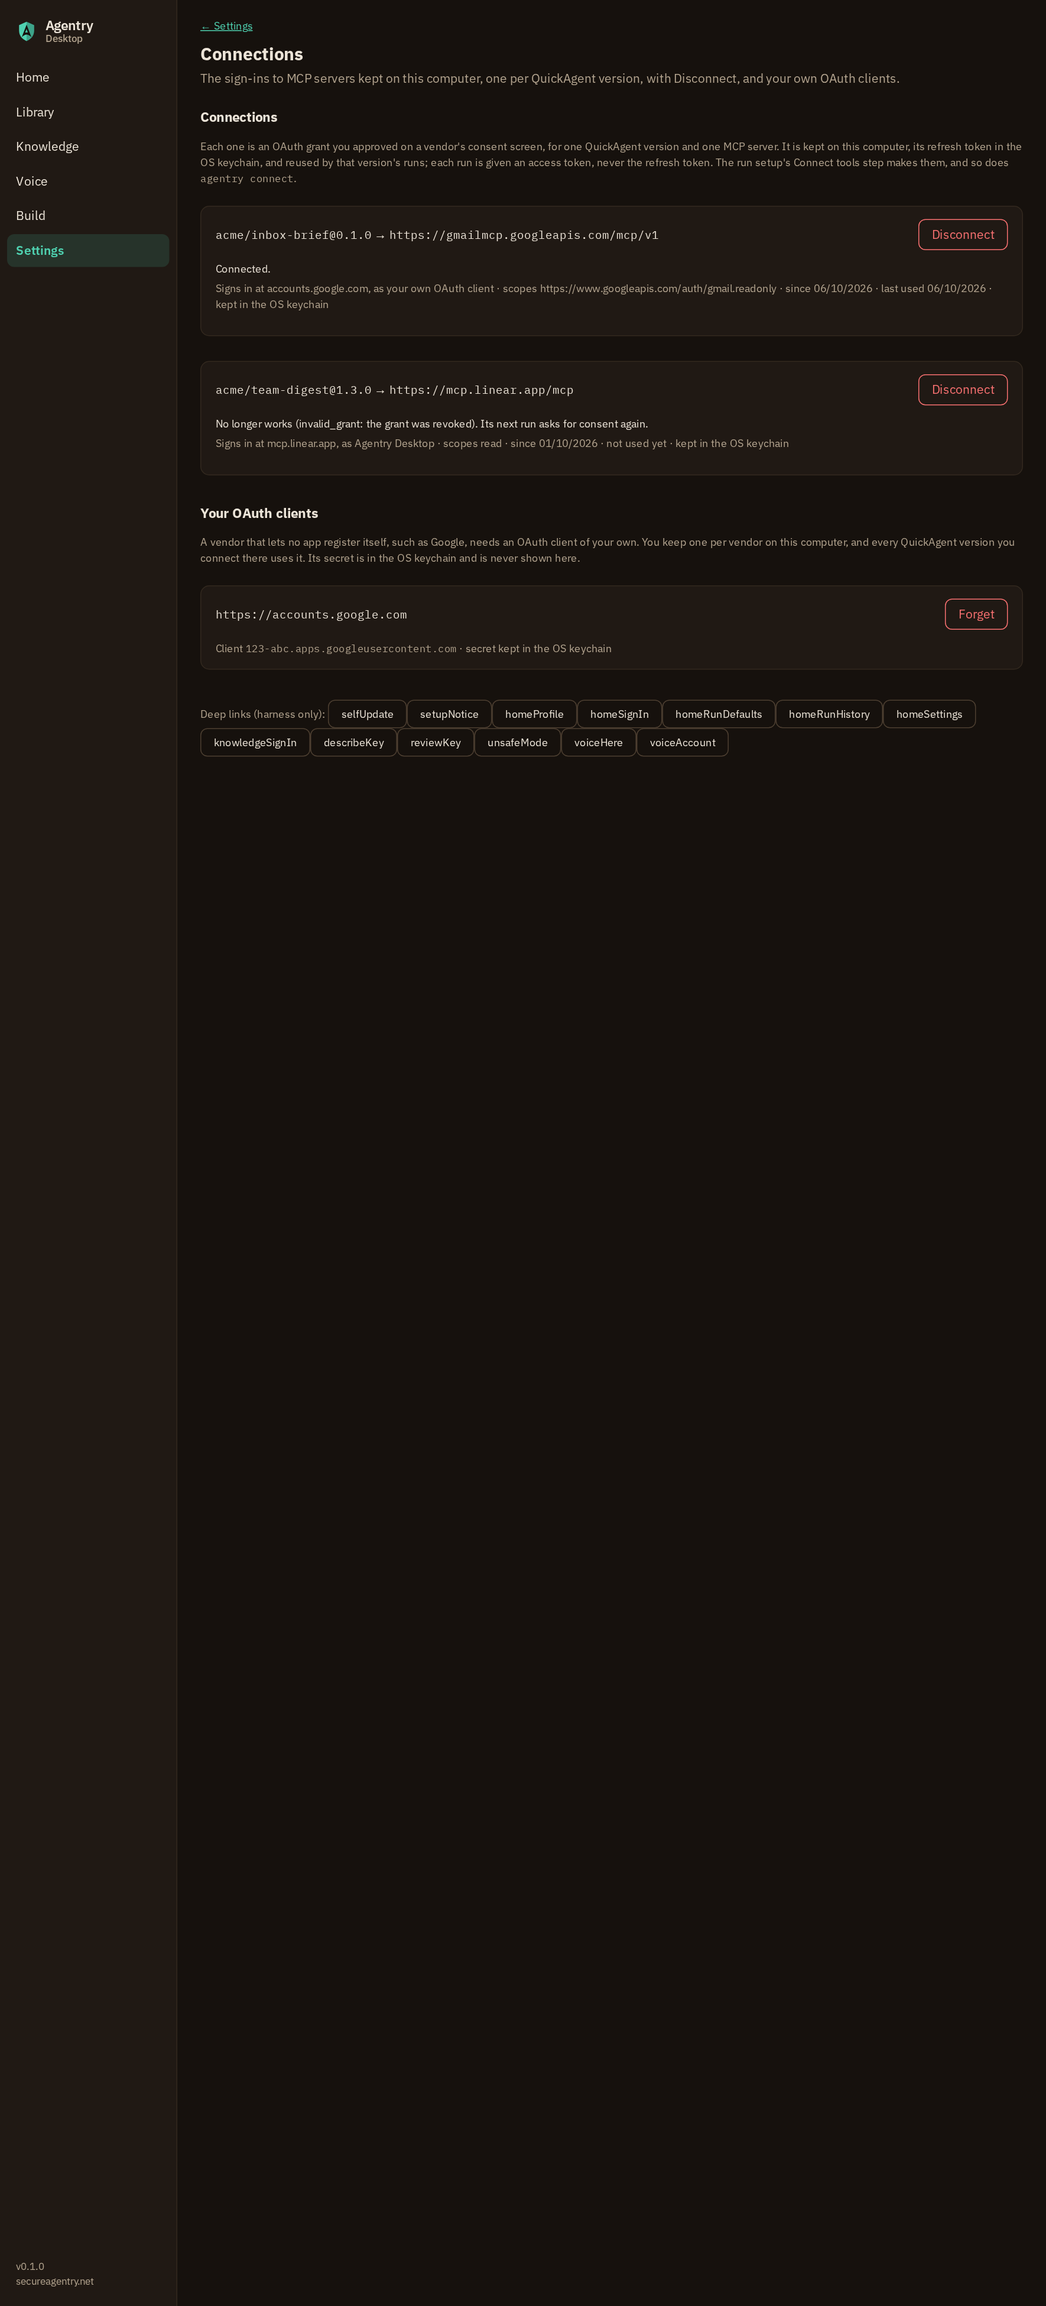
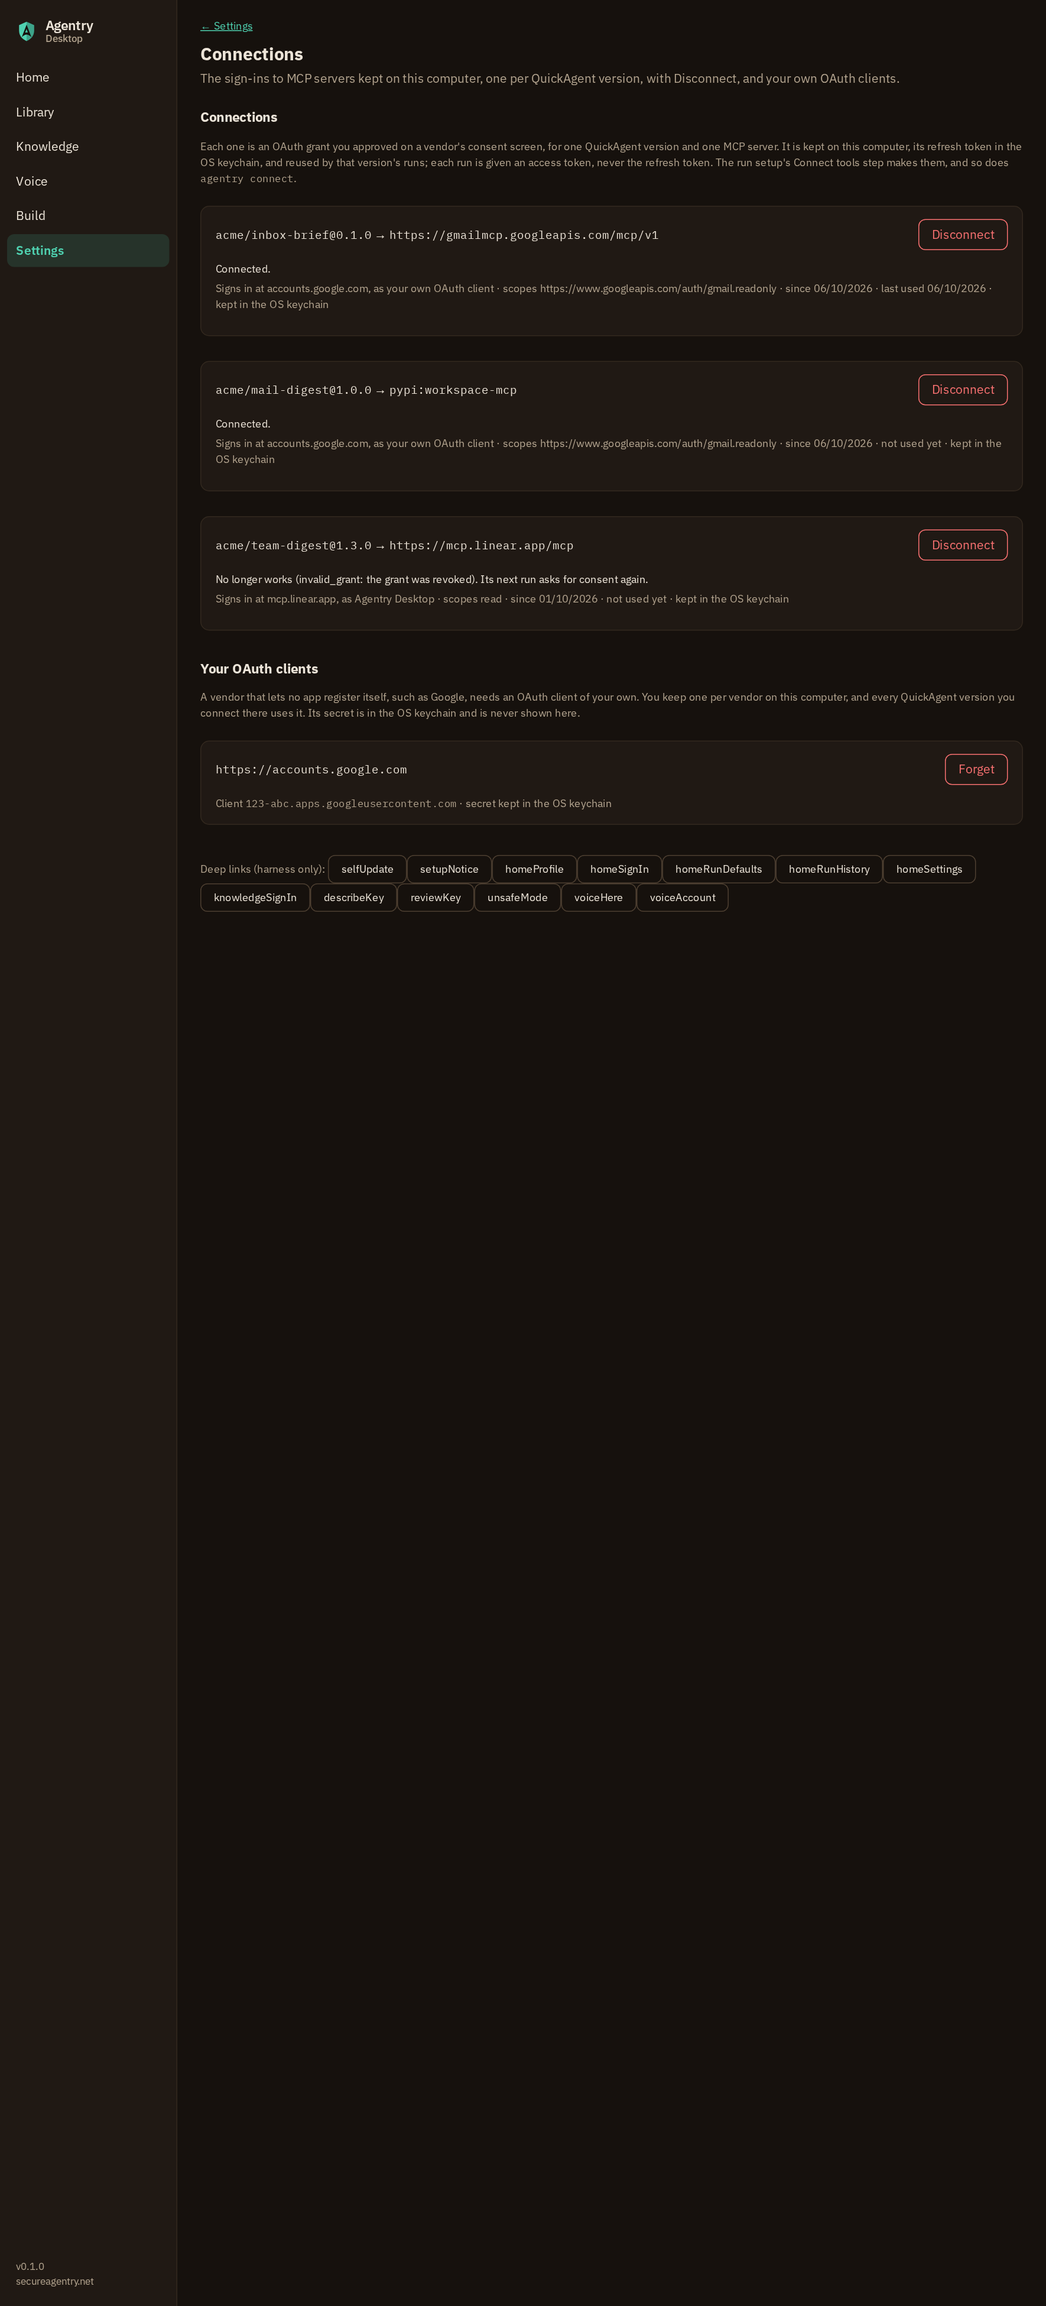
fix(run): Connect again with the same client revokes nothing; Disconnect names the connections that share the grant
The live check on Windows (#666) found that Google revokes an account's
whole grant to a client, not one refresh token: disconnecting
live-m5/gmail-remote ended live-m5/gmail-wsmcp's connection too, both made
with the operator's own client (invalid_grant: Token has been expired or
revoked). So:

- Connecting again with the same client at the same issuer replaces the
  record and its secret (Store.Put) and revokes nothing: revoking the old
  token would end the grant just made, and every other connection made
  with that client.
- Each connection names the other kept connections made with the same
  client at the same issuer (sharesGrantWith). Disconnect still revokes,
  as D17 says (the operator's decision of 2026-10-06: always revoke, warn
  first), and both Disconnect dialogs name the connections it may end. An
  uninstall's message names them after the fact.

Tests: TestConnectingAgainWithTheSameClientRevokesNothing (a mutation of
the rule was caught), TestConnectionsSayWhichOthersShareTheirGrant, the
warning's words; harness state settings-connections-disconnect.

Refs #666

diff --git a/frontend/tests/connections.test.ts b/frontend/tests/connections.test.ts
@@ -2,7 +2,7 @@
 // connection, and what it holds Run for.
 import { test } from "node:test";
 import assert from "node:assert/strict";
-import { connectionBlockers, connectionLine, connectionsStatus, pastedProblem, signInRecap, type ServerConn } from "../src/connections.ts";
+import { connectionBlockers, connectionLine, connectionsStatus, pastedProblem, sharedGrantWarning, signInRecap, type ServerConn } from "../src/connections.ts";
 import { needList, signInNeed } from "../src/runSetup.ts";
 
 const gmail = "https://gmailmcp.googleapis.com/mcp/v1";
@@ -66,4 +66,15 @@ test("the Connections card's line counts what is kept and what no longer works",
   const c = (state: string) => ({ state }) as never;
   assert.equal(connectionsStatus({ connections: [], clients: [] }), "No connections kept · no OAuth client of your own.");
   assert.equal(connectionsStatus({ connections: [c("connected"), c("broken")], clients: [{} as never] }), "2 connections kept (1 no longer working) · 1 OAuth client of your own.");
+});
+
+test("Disconnect warns by name when other connections share the client's grant", () => {
+  assert.equal(sharedGrantWarning("accounts.google.com", []), null);
+  assert.equal(sharedGrantWarning("accounts.google.com", undefined), null);
+  const w = sharedGrantWarning("accounts.google.com", ["acme/digest@2.0.0 → pypi:workspace-mcp"]) ?? "";
+  assert.match(w, /^accounts\.google\.com may revoke everything granted to that client/);
+  assert.match(w, /Google does/);
+  assert.match(w, /acme\/digest@2\.0\.0 → pypi:workspace-mcp/);
+  assert.match(w, /The other connection made with the same client then stops working too, and asks for your consent at its next run: /);
+  assert.match(sharedGrantWarning("accounts.google.com", ["a", "b"]) ?? "", /The 2 other connections made with the same client then stop working too, and ask .* their next run: a; b\.$/);
 });

diff --git a/frontend/harness/pages.tsx b/frontend/harness/pages.tsx
@@ -756,9 +756,13 @@ g.go = { main: {
     Connections: async () => ({
       connections: [
         { ref: "acme/inbox-brief@0.1.0", digest: "sha256:7f3a2b9c1d4e5f60", server: "https://gmailmcp.googleapis.com/mcp/v1", issuer: "https://accounts.google.com", client: "own",
-          scopes: ["https://www.googleapis.com/auth/gmail.readonly"], state: "connected", createdAt: "2026-10-06T14:02:00Z", lastUsedAt: "2026-10-06T14:05:00Z", keptIn: "keychain" },
+          scopes: ["https://www.googleapis.com/auth/gmail.readonly"], state: "connected", createdAt: "2026-10-06T14:02:00Z", lastUsedAt: "2026-10-06T14:05:00Z", keptIn: "keychain",
+          sharesGrantWith: ["acme/mail-digest@1.0.0 → pypi:workspace-mcp"] },
+        { ref: "acme/mail-digest@1.0.0", digest: "sha256:3c4d5e6f7a8b9c0d", server: "pypi:workspace-mcp", issuer: "https://accounts.google.com", client: "own",
+          scopes: ["https://www.googleapis.com/auth/gmail.readonly"], state: "connected", createdAt: "2026-10-06T14:20:00Z", keptIn: "keychain",
+          sharesGrantWith: ["acme/inbox-brief@0.1.0 → https://gmailmcp.googleapis.com/mcp/v1"] },
         { ref: "acme/team-digest@1.3.0", digest: "sha256:0b1c2d3e4f5a6b7c", server: "https://mcp.linear.app/mcp", issuer: "https://mcp.linear.app", client: "dcr",
-          scopes: ["read"], state: "broken", broken: "invalid_grant: the grant was revoked", createdAt: "2026-10-01T09:00:00Z", keptIn: "keychain" },
+          scopes: ["read"], state: "broken", broken: "invalid_grant: the grant was revoked", createdAt: "2026-10-01T09:00:00Z", keptIn: "keychain", sharesGrantWith: [] },
       ],
       clients: [{ issuer: "https://accounts.google.com", clientId: "123-abc.apps.googleusercontent.com", secretIn: "keychain" }],
     }),

diff --git a/frontend/src/pages/ConnectTools.tsx b/frontend/src/pages/ConnectTools.tsx
@@ -15,7 +15,7 @@ import { OpenExternal } from "../../wailsjs/go/main/App";
 import { run } from "../../wailsjs/go/models";
 import { EventsOn } from "../../wailsjs/runtime/runtime";
 import { Button, Card, ErrorBox, Input, Modal, Notice } from "../ui";
-import { connectionLine, hostOf, pastedProblem, scopeWords, type ServerConn } from "../connections";
+import { connectionLine, hostOf, pastedProblem, scopeWords, sharedGrantWarning, type ServerConn } from "../connections";
 
 /** The own-client ask: Agentry's steps for the vendor, then the form. */
 export function OwnClientSteps({ guide }: { guide: run.OwnClientGuide }) {
@@ -234,6 +234,9 @@ export function ServerSignIns({ registry, agentRef, release, onChanged }: {
             The connection of this version to <span className="mono">{confirm.server}</span> is removed from this computer, and
             Agentry asks the vendor to revoke it where the vendor offers that. Its next run asks for your consent again.
           </p>
+          {sharedGrantWarning(hostOf(confirm.issuer), confirm.sharesGrantWith) && (
+            <Notice tone="warn">{sharedGrantWarning(hostOf(confirm.issuer), confirm.sharesGrantWith)}</Notice>
+          )}
           <div className="row" style={{ justifyContent: "flex-end" }}>
             <Button onClick={() => setConfirm(null)}>Cancel</Button>
             <Button variant="danger" onClick={() => void disconnect(confirm)}>Disconnect</Button>

diff --git a/frontend/src/connections.ts b/frontend/src/connections.ts
@@ -120,3 +120,16 @@ export function connectionsStatus(v: Pick<main.KeptConnectionsView, "connections
   const own = c === 0 ? "no OAuth client of your own" : c === 1 ? "1 OAuth client of your own" : `${c} OAuth clients of your own`;
   return `${conns}${broken > 0 ? ` (${broken} no longer working)` : ""} · ${own}.`;
 }
+
+/** The warning a Disconnect shows when other connections were made with the
+ *  same client at the same vendor (agentry-desktop#666): a vendor such as
+ *  Google revokes the whole grant to the client, so they stop working too.
+ *  The operator decided on 2026-10-06 that Disconnect still revokes; null
+ *  when nothing else shares the grant. */
+export function sharedGrantWarning(vendorHost: string, shared: string[] | undefined): string | null {
+  if (!shared || shared.length === 0) return null;
+  const then = shared.length === 1
+    ? "The other connection made with the same client then stops working too, and asks for your consent at its next run"
+    : `The ${shared.length} other connections made with the same client then stop working too, and ask for your consent at their next run`;
+  return `${vendorHost || "The vendor"} may revoke everything granted to that client, not this connection alone: Google does. ${then}: ${shared.join("; ")}.`;
+}

diff --git a/frontend/src/pages/SettingsConnections.tsx b/frontend/src/pages/SettingsConnections.tsx
@@ -9,7 +9,7 @@ import { useEffect, useState } from "react";
 import * as RunAPI from "../../wailsjs/go/main/RunAPI";
 import { main, run } from "../../wailsjs/go/models";
 import { Button, Card, ErrorBox, Modal, Notice } from "../ui";
-import { clientWords, dateOf, hostOf, scopeWords } from "../connections";
+import { clientWords, dateOf, hostOf, scopeWords, sharedGrantWarning } from "../connections";
 export { connectionsStatus } from "../connections";
 
 export function ConnectionsSettings() {
@@ -121,6 +121,9 @@ export function ConnectionsSettings() {
             removed from this computer, and Agentry asks {hostOf(confirm.conn.issuer)} to revoke it where it offers that. That
             version&apos;s next run asks for your consent again.
           </p>
+          {sharedGrantWarning(hostOf(confirm.conn.issuer), confirm.conn.sharesGrantWith) && (
+            <Notice tone="warn">{sharedGrantWarning(hostOf(confirm.conn.issuer), confirm.conn.sharesGrantWith)}</Notice>
+          )}
           <div className="row" style={{ justifyContent: "flex-end" }}>
             <Button onClick={() => setConfirm(null)}>Cancel</Button>
             <Button variant="danger" onClick={() => void disconnect(confirm.conn!)}>Disconnect</Button>

diff --git a/frontend/wailsjs/go/models.ts b/frontend/wailsjs/go/models.ts
@@ -5058,6 +5058,7 @@ export namespace run {
 	    createdAt: string;
 	    lastUsedAt?: string;
 	    keptIn: string;
+	    sharesGrantWith: string[];
 	
 	    static createFrom(source: any = {}) {
 	        return new KeptConnection(source);
@@ -5077,6 +5078,7 @@ export namespace run {
 	        this.createdAt = source["createdAt"];
 	        this.lastUsedAt = source["lastUsedAt"];
 	        this.keptIn = source["keptIn"];
+	        this.sharesGrantWith = source["sharesGrantWith"];
 	    }
 	}
 	export class OwnClientGuide {
@@ -5114,6 +5116,7 @@ export namespace run {
 	    createdAt?: string;
 	    lastUsedAt?: string;
 	    unsupported?: string;
+	    sharesGrantWith: string[];
 	
 	    static createFrom(source: any = {}) {
 	        return new ServerConnection(source);
@@ -5133,6 +5136,7 @@ export namespace run {
 	        this.createdAt = source["createdAt"];
 	        this.lastUsedAt = source["lastUsedAt"];
 	        this.unsupported = source["unsupported"];
+	        this.sharesGrantWith = source["sharesGrantWith"];
 	    }
 	}
 	export class ReleaseConnections {

diff --git a/frontend/harness/modals.tsx b/frontend/harness/modals.tsx
@@ -153,7 +153,7 @@ const gmailServer = "https://gmailmcp.googleapis.com/mcp/v1";
 const signInRelease = {
   ref: "acme/inbox-brief@0.1.0", digest: "sha256:7f3a2b9c1d4e5f60",
   servers: [{
-    server: gmailServer, what: gmailServer, scopes: ["https://www.googleapis.com/auth/gmail.readonly"],
+    server: gmailServer, what: gmailServer, scopes: ["https://www.googleapis.com/auth/gmail.readonly"], sharesGrantWith: [],
     ...(view === "runpanel-signin-connected"
       ? { state: "connected", issuer: "https://accounts.google.com", client: "own", createdAt: "2026-10-06T14:02:00Z", lastUsedAt: "2026-10-06T14:05:00Z", granted: ["https://www.googleapis.com/auth/gmail.readonly"] }
       : { state: "none", granted: [] }),

diff --git a/internal/run/connections.go b/internal/run/connections.go
@@ -78,6 +78,10 @@ type ServerConnection struct {
 	// Unsupported is the alternative for a package that cannot run on an
 	// access token alone (plan D25): Connect refuses it, as its run would.
 	Unsupported string `json:"unsupported,omitempty"`
+	// SharesGrantWith names the other kept connections made with the same
+	// client at the same issuer (sharedGrant): Disconnect warns that a
+	// vendor such as Google ends them too.
+	SharesGrantWith []string `json:"sharesGrantWith"`
 }
 
 // ReleaseConnections is a release's servers that sign in by OAuth.
@@ -149,6 +153,24 @@ func openStores(home string) stores {
 	return stores{conns: connection.Open(home, keys), clients: connection.OpenClients(home, keys), httpc: vendorHTTP()}
 }
 
+// sharedGrant names the kept connections other than c made with the same
+// client at the same issuer, "ref → server" each. Google revokes the whole
+// grant of an account to a client, not one refresh token (found in
+// agentry-desktop#666's live check: disconnecting one connection made with
+// the person's own client ended another made with it), so removing c may
+// end these too; the operator decided on 2026-10-06 that removal still
+// revokes, after a warning that names them.
+func sharedGrant(all []*connection.Connection, c *connection.Connection) []string {
+	out := []string{}
+	for _, o := range all {
+		if o.Key() == c.Key() || o.Client.ID == "" || o.Client.ID != c.Client.ID || o.Issuer != c.Issuer {
+			continue
+		}
+		out = append(out, o.Ref+" → "+o.Server)
+	}
+	return out
+}
+
 // stateOf is a kept connection's state and why it is broken.
 func stateOf(c *connection.Connection) (string, string) {
 	if c.Broken != "" {
@@ -184,11 +206,15 @@ func ConnectionsFor(ctx context.Context, regURL, ref string) (*ReleaseConnection
 
 func connectionsOf(store *connection.Store, ref, digest string, m *manifest.Manifest) (*ReleaseConnections, error) {
 	out := &ReleaseConnections{Ref: ref, Digest: digest, Servers: []ServerConnection{}}
+	all, err := store.List()
+	if err != nil {
+		return nil, err
+	}
 	for _, srv := range oauthServers(m) {
 		sc := ServerConnection{
 			Server: connectionServer(srv), What: connectionWhat(srv),
 			Scopes: append([]string{}, connectionScopes(srv)...), State: ConnNone, Granted: []string{},
-			Unsupported: unsupportedAlternative(srv),
+			Unsupported: unsupportedAlternative(srv), SharesGrantWith: []string{},
 		}
 		if srv.OAuth != nil {
 			sc.Issuer = srv.OAuth.Issuer
@@ -203,6 +229,7 @@ func connectionsOf(store *connection.Store, ref, digest string, m *manifest.Mani
 			sc.Issuer, sc.Label, sc.Client = c.Issuer, c.Label, c.Client.Kind
 			sc.Granted = append([]string{}, c.Scopes...)
 			sc.CreatedAt, sc.LastUsedAt = c.CreatedAt, c.LastUsedAt
+			sc.SharesGrantWith = sharedGrant(all, c)
 		}
 		out.Servers = append(out.Servers, sc)
 	}
@@ -289,7 +316,19 @@ func connect(ctx context.Context, home, ref, digest string, m *manifest.Manifest
 		return nil, fmt.Errorf("connect %s: %w", server, err)
 	}
 	k := connection.Key{Ref: ref, Digest: digest, Server: server}
-	if old, gerr := store.Get(k); gerr == nil && old != nil {
+	old, gerr := store.Get(k)
+	switch {
+	case gerr != nil || old == nil:
+	case old.Client.ID == g.Client.ID && old.Issuer == g.Discovery.Server.Issuer:
+		// The same client at the same issuer: revoking the old refresh
+		// token would end the grant just made at a vendor that revokes the
+		// whole grant (Google), and every other connection made with that
+		// client. Put replaces the record and its secret; nothing is
+		// revoked.
+		if ui.Say != nil {
+			ui.Say("The previous connection is replaced. It was made with the same client, so it is not revoked at the vendor: that would end the new one too.")
+		}
+	default:
 		rctx, cancel := context.WithTimeout(context.WithoutCancel(ctx), revokeTimeout)
 		outcome, rerr := store.Remove(rctx, k, httpc, clients, "replaced by a new consent")
 		cancel()
@@ -395,6 +434,8 @@ type KeptConnection struct {
 	LastUsedAt string   `json:"lastUsedAt,omitempty"`
 	// KeptIn is where its secret half is: "keychain" or "file".
 	KeptIn string `json:"keptIn"`
+	// SharesGrantWith: as ServerConnection's.
+	SharesGrantWith []string `json:"sharesGrantWith"`
 }
 
 // KeptClient is one of the person's own OAuth clients: never its secret.
@@ -424,6 +465,7 @@ func KeptConnections() ([]KeptConnection, []KeptClient, error) {
 			CreatedAt: c.CreatedAt, LastUsedAt: c.LastUsedAt, KeptIn: c.SecretIn,
 		}
 		k.State, k.Broken = stateOf(c)
+		k.SharesGrantWith = sharedGrant(list, c)
 		conns = append(conns, k)
 	}
 	cs, err := connection.OpenClients(home, nil).List()
@@ -478,7 +520,11 @@ func RemoveConnectionsOf(ctx context.Context, ns, name string) ([]string, error)
 			errs = append(errs, rerr)
 			continue
 		}
-		out = append(out, fmt.Sprintf("removed the connection of %s to %s (revocation: %s)", c.Ref, c.Server, outcome))
+		line := fmt.Sprintf("removed the connection of %s to %s (revocation: %s)", c.Ref, c.Server, outcome)
+		if shared := sharedGrant(list, c); outcome == connection.RevokeDone && len(shared) > 0 {
+			line += "; at a vendor that revokes the whole grant, these, made with the same client, stop working too: " + strings.Join(shared, ", ")
+		}
+		out = append(out, line)
 	}
 	return out, errors.Join(errs...)
 }

diff --git a/internal/run/connections_test.go b/internal/run/connections_test.go
@@ -482,3 +482,74 @@ func TestAStartRefusesAnUnsupportedPackageAndConnectAnUndeclaredServer(t *testin
 		t.Fatalf("a server the release does not declare must be refused before consent: %v (presented %v)", err, presented)
 	}
 }
+
+// Google revokes an account's whole grant to a client, not one refresh
+// token (agentry-desktop#666's live check). Connecting again with the same
+// client must therefore not revoke the old token: that would end the new
+// grant, and every other connection made with the client.
+func TestConnectingAgainWithTheSameClientRevokesNothing(t *testing.T) {
+	v := mcpauthtest.New(t)
+	home := fakeVendorSeams(t, v, &memKeys{m: map[string]string{}})
+	v.AddClient("my-client", "PROBE-CLIENT-SECRET-again")
+	if err := SetOwnClient(v.URL, "my-client", "PROBE-CLIENT-SECRET-again"); err != nil {
+		t.Fatal(err)
+	}
+	m := remoteOAuthManifest(v.ServerURL())
+	for i := 0; i < 2; i++ {
+		var said []string
+		ui := browserUI(v)
+		ui.Say = func(s string) { said = append(said, s) }
+		if _, err := connect(context.Background(), home, refA, digestA, m, v.ServerURL(), ui); err != nil {
+			t.Fatal(err)
+		}
+		if i == 1 && !strings.Contains(strings.Join(said, "\n"), "not revoked") {
+			t.Fatalf("the replacement does not say it revoked nothing: %q", said)
+		}
+	}
+	if len(v.Revoked) != 0 {
+		t.Fatalf("connecting again revoked %v", v.Revoked)
+	}
+	if _, err := openConnections(context.Background(), home, refA, digestA, m); err != nil {
+		t.Fatalf("the new connection does not work: %v", err)
+	}
+}
+
+func TestConnectionsSayWhichOthersShareTheirGrant(t *testing.T) {
+	v := mcpauthtest.New(t)
+	v.DCR = true
+	home := fakeVendorSeams(t, v, &memKeys{m: map[string]string{}})
+	v.AddClient("my-client", "s")
+	if err := SetOwnClient(v.URL, "my-client", "s"); err != nil {
+		t.Fatal(err)
+	}
+	m := remoteOAuthManifest(v.ServerURL())
+	for _, ref := range []string{"acme/inbox@1.0.0", "acme/digest@2.0.0"} {
+		if _, err := connect(context.Background(), home, ref, digestA, m, v.ServerURL(), browserUI(v)); err != nil {
+			t.Fatal(err)
+		}
+	}
+	conns, _, err := KeptConnections()
+	if err != nil || len(conns) != 2 {
+		t.Fatalf("%+v %v", conns, err)
+	}
+	for _, c := range conns {
+		if len(c.SharesGrantWith) != 1 || strings.HasPrefix(c.SharesGrantWith[0], c.Ref) {
+			t.Fatalf("%s shares with %v", c.Ref, c.SharesGrantWith)
+		}
+	}
+	rc, _ := connectionsOf(connection.Open(home, nil), "acme/inbox@1.0.0", digestA, m)
+	if got := rc.Servers[0].SharesGrantWith; len(got) != 1 || got[0] != "acme/digest@2.0.0 → "+v.ServerURL() {
+		t.Fatalf("the run setup's view: %v", got)
+	}
+	// A client registered per consent shares nothing.
+	if _, err := ForgetOwnClient(v.URL); err != nil {
+		t.Fatal(err)
+	}
+	if _, err := connect(context.Background(), home, "acme/other@1.0.0", digestA, m, v.ServerURL(), browserUI(v)); err != nil {
+		t.Fatal(err)
+	}
+	rc, _ = connectionsOf(connection.Open(home, nil), "acme/other@1.0.0", digestA, m)
+	if len(rc.Servers[0].SharesGrantWith) != 0 {
+		t.Fatalf("a registered client shares: %v", rc.Servers[0].SharesGrantWith)
+	}
+}
